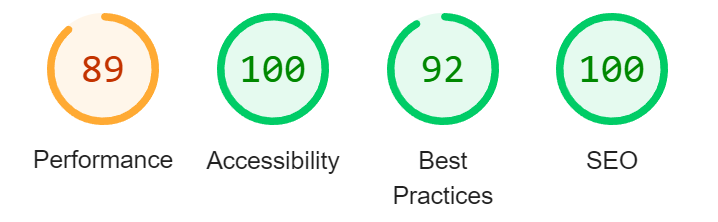
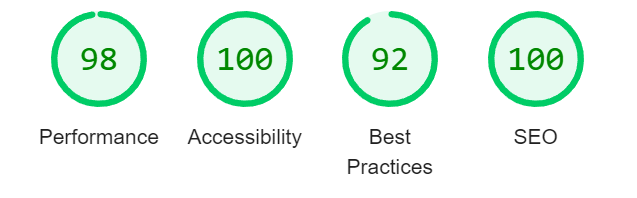
Update README.md

diff --git a/TESTING.md b/TESTING.md
@@ -77,30 +77,28 @@ After testing the other pages the only alert found on each page was in regards t
 
 ## Lighthouse
 ### **Home**
+I was getting some issues regarding the performance on the home page. To help with this issue I first compressed the images and then resized them to be the size of the bootstrap breakpoints at large, medium, and small screen sizes. I then added media queries to the images to change the images to their respective screen size. This helped a lot with performance however it was still not getting much above 60. I then figured out that I was loading all Font Awesome icons which was unnecessary, so I switched the source to only display my particular Font Awesome kit. This along with the image compression and resizing allowed my performance level to get up to a standard I was happy with. 
 
 **Desktop**
 
-Prior to home image compression:
+Prior to the changes:
 
 ![Home Lighthouse Desktop](readme/testing/lh-home-desktop.png)
 
-After home image compression:
+After the changes:
 
 ![Home Lighthouse Desktop](readme/testing/lh-home-desktop-2.png)
 
 **Mobile**
 
-Prior to home image compression:
+Prior to the changes:
 
 ![Home Lighthouse Mobile](readme/testing/lh-home-mobile.png)
 
-After home image compression:
+After the changes:
 
 ![Home Lighthouse Mobile](readme/testing/lh-home-mobile-2.png)
 
-I believe that the some of the performance issues are due to the embedded Google Maps API.
-
-The home images could also benefit from being resized.
 
 ### **Our Tables**
 **Desktop**
